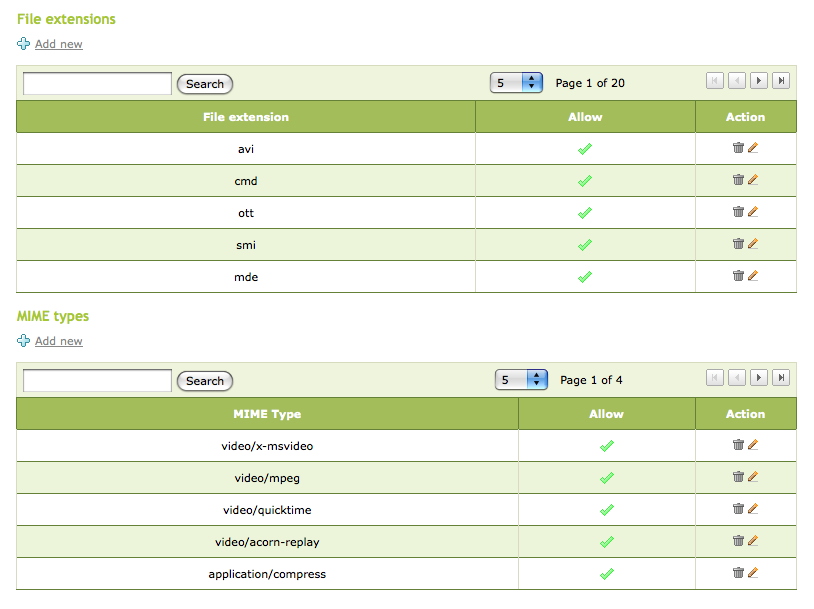
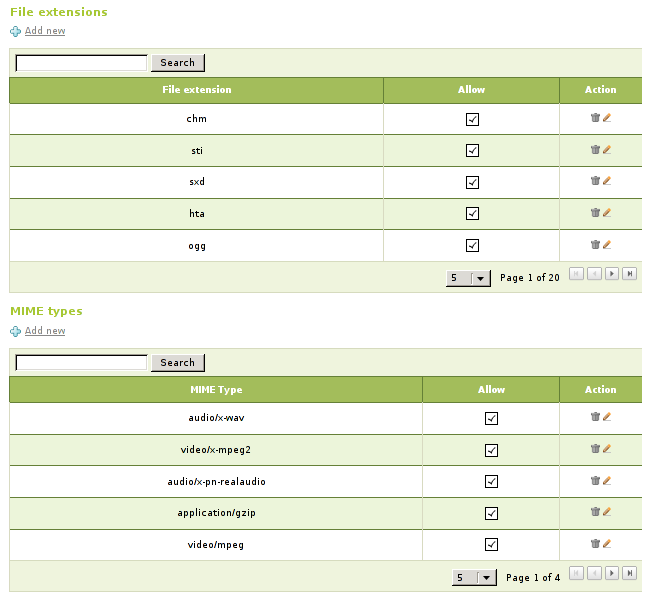
NN: updated shots for mailfilter
git-svn-id: http://svn.zentyal.org/zentyal/trunk@16563 866bc4c1-54da-0310-a958-9d5a9a0e8d04

diff --git a/docs/en/user/mailfilter.rst b/docs/en/user/mailfilter.rst
@@ -121,7 +121,6 @@ and up to date.
    :scale: 70
    :align: center
 
-.. FIXME: Update the shot with the new message
 
 You can update it from :menuselection:`Software Management`, as we will see
 in :ref:`software-ref`.
@@ -228,7 +227,6 @@ attached or their Multipurpose Internet Mail Extensions (MIME) types.
 .. image:: images/mailfilter/06-filter-files.png
    :scale: 80
 
-.. FIXME: Update the shot using new in-place edition
 
 .. _smtp-filter-ref:
 
@@ -242,7 +240,6 @@ the general behavior for every incoming email:
 
 .. image:: images/mailfilter/07-filter-smtp.png
 
-.. FIXME: Update the shot with new composite names
 
 Enabled:
   Check to enable the SMTP mail filter.
@@ -261,7 +258,6 @@ to configure what the filter must do with any kind of email.
 
 .. image:: images/mailfilter/08-filter-smtp-policies.png
 
-.. FIXME: Update the shot with new composite names
 
 For each kind of email problem, you can perform the following actions:
 
@@ -285,7 +281,6 @@ on :guilabel:`Add new`.
 
 .. image:: images/mailfilter/09-filter-domains.png
 
-.. FIXME: Update the shot with new composite names and new option
 
 The parameters that can be overridden are the following:
 
@@ -327,7 +322,6 @@ to filter mail.
    :scale: 80
    :align: center
 
-.. FIXME: Update the shot with new composite names and the edit in-place
 
 .. _pop3-proxy-ref:
 
